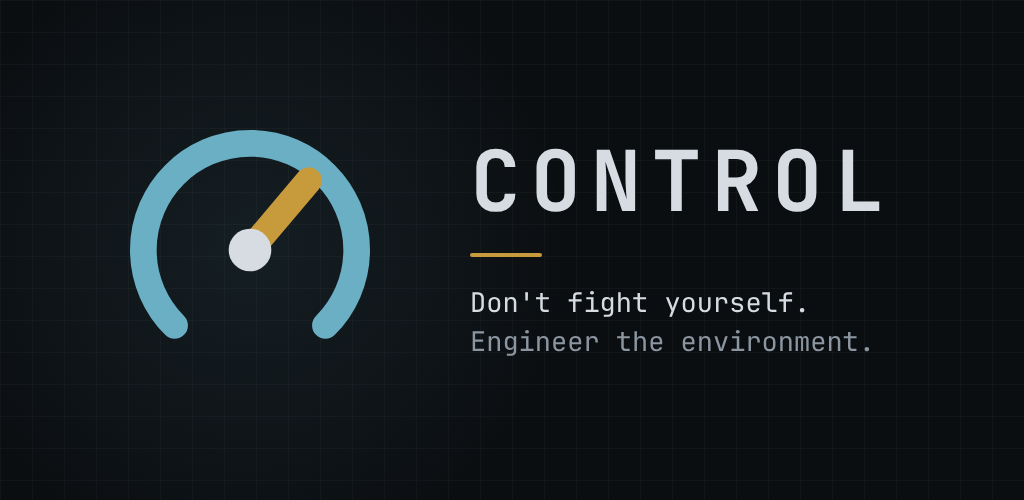
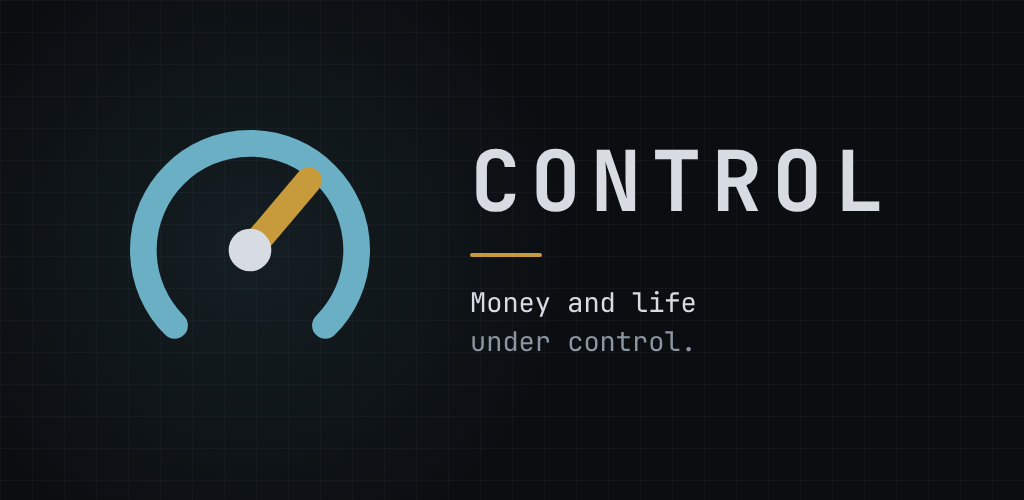
Money and life under control; exact permission list; rating section in the policy
Claude-Session: https://claude.ai/code/session_013H4ccpA5geiEoR3crP6e7C

diff --git a/en/index.html b/en/index.html
@@ -3,10 +3,10 @@
 <head>
 <meta charset="utf-8">
 <meta name="viewport" content="width=device-width, initial-scale=1">
-<title>CONTROL: Life &amp; Habit Tracker</title>
-<meta name="description" content="Addictions, habits, health from your watch and money in one Android app. No account and no internet: nothing you enter leaves your phone.">
-<meta property="og:title" content="CONTROL: Life &amp; Habit Tracker">
-<meta property="og:description" content="Addictions, habits, health from your watch and money in one Android app. No account and no internet: nothing you enter leaves your phone.">
+<title>CONTROL: money and life under control</title>
+<meta name="description" content="Money and life under control in one Android app: expenses, habits, health from your watch and a way out of addictions. No account and no internet: nothing you enter leaves your phone.">
+<meta property="og:title" content="CONTROL: money and life under control">
+<meta property="og:description" content="Money and life under control in one Android app: expenses, habits, health from your watch and a way out of addictions. No account and no internet: nothing you enter leaves your phone.">
 <meta property="og:image" content="https://dominikzurek.github.io/control-site/img/feature-en.png">
 <meta name="theme-color" content="#0D1318">
 <link rel="icon" href="../icon.svg" type="image/svg+xml">
@@ -23,34 +23,34 @@
 <main>
 <div class="hero">
 <div>
-<h1 class="motto"><span class="fight">Don&#x27;t fight yourself.</span><span class="design">Engineer the environment.</span></h1>
-<p class="lead">CONTROL is a personal system for better control over your life: addictions, habits, health from your watch and money in one place. It works without an account and without the internet, so nothing you enter leaves your phone.</p>
+<h1 class="motto"><span class="fight">Money and life</span><span class="design">under control.</span></h1>
+<p class="lead">CONTROL starts with your money: accounts, expenses, income and several currencies in one place. Around it you choose the rest: habits, health from your watch and, if you need it, a way out of an addiction. No account and no internet, so nothing you enter leaves your phone.</p>
 <div class="actions"><span class="button" aria-disabled="true">Coming soon to Google Play</span><a href="../privacy-policy.html">Privacy policy</a></div>
 <p class="req">Android 8.0 or newer, 17 languages.</p>
 </div>
-<div class="phone"><img src="../img/en-01-dashboard.webp" alt="The Today screen in CONTROL" width="540" height="1080"></div>
+<div class="phone"><img src="../img/en-24-finance.webp" alt="The Money screen in CONTROL" width="540" height="1080"></div>
 </div>
 
 <section aria-labelledby="inside">
 <h2 id="inside">What&#x27;s inside</h2>
 <div class="features">
-<div class="feature"><div class="phone"><img src="../img/en-02-urge.webp" alt="" width="540" height="1080" loading="lazy"></div><h3>When an urge comes</h3><p>A protocol for the next few minutes, the BLOCKER for sites and help numbers at hand. A lapse is data to learn from, not a reason for shame.</p></div><div class="feature"><div class="phone"><img src="../img/en-38-watches.webp" alt="" width="540" height="1080" loading="lazy"></div><h3>Health from your watch</h3><p>Sleep, steps and heart rate from Garmin, Samsung, Fitbit and more. You choose which app the data comes from.</p></div><div class="feature"><div class="phone"><img src="../img/en-24-finance.webp" alt="" width="540" height="1080" loading="lazy"></div><h3>Money</h3><p>Accounts, expenses, recurring payments and your own categories. Several currencies, counted apart or at your own rates.</p></div>
+<div class="feature"><div class="phone"><img src="../img/en-01-dashboard.webp" alt="" width="540" height="1080" loading="lazy"></div><h3>Your day</h3><p>The Today screen: the day plan, payments to book, habits and a 30-second check-in. Habits tick themselves off from your watch data.</p></div><div class="feature"><div class="phone"><img src="../img/en-02-urge.webp" alt="" width="540" height="1080" loading="lazy"></div><h3>When an urge comes</h3><p>A protocol for the next few minutes, the BLOCKER for apps and help numbers at hand. A lapse is data to learn from, not a reason for shame.</p></div><div class="feature"><div class="phone"><img src="../img/en-38-watches.webp" alt="" width="540" height="1080" loading="lazy"></div><h3>Health from your watch</h3><p>Sleep, steps and heart rate from Garmin, Samsung, Fitbit and more. You choose which app the data comes from.</p></div>
 </div>
-<p class="modules dim">Plus habits that tick themselves off from your watch data, and in CONTROL Pro a planner with alarms, shift work with pay, goals and focus.</p>
+<p class="modules dim">CONTROL Pro adds a planner with alarms, shift work with pay, goals and focus.</p>
 </section>
 
 <section aria-labelledby="perm">
 <h2 id="perm">What CONTROL can do on your phone</h2>
-<p class="dim" style="max-width:var(--measure)">Every permission of an Android app is public. This is the full list, with what each one is for. You can check it in your phone&#x27;s settings or in the Exodus Privacy report.</p>
+<p class="dim" style="max-width:var(--measure)">Every permission of an Android app is public. This is the full list of the release version, with what each one is for.</p>
 <ul class="ledger">
-<li class="absent"><code>android.permission.INTERNET</code><span>Not there. CONTROL has no way to send anything: not your data, not statistics, not ads.</span></li><li><code>POST_NOTIFICATIONS</code><span>Reminders for the check-in, habits and the day plan.</span></li><li><code>SCHEDULE_EXACT_ALARM, SET_ALARM</code><span>Alarms and reminders that ring on time.</span></li><li><code>RECEIVE_BOOT_COMPLETED</code><span>Puts reminders and alarms back after a restart.</span></li><li><code>USE_BIOMETRIC</code><span>Locking the app with your fingerprint.</span></li><li><code>FOREGROUND_SERVICE</code><span>BLOCKER: a local VPN on the phone that cuts off chosen sites. It sends nothing.</span></li><li><code>READ_CALENDAR, WRITE_CALENDAR</code><span>The phone&#x27;s calendar in the planner, only if you connect it.</span></li><li><code>health.READ_SLEEP, READ_STEPS, READ_EXERCISE, READ_HEART_RATE, READ_RESTING_HEART_RATE, READ_HEART_RATE_VARIABILITY</code><span>Sleep, steps, workouts and heart rate from your watch through Health Connect. Read only.</span></li><li><code>PACKAGE_USAGE_STATS</code><span>Screen time, if you allow it.</span></li><li><code>com.android.vending.BILLING, ACCESS_NETWORK_STATE</code><span>The subscription through the Play Store app on the phone (Google&#x27;s billing library). Neither lets CONTROL send data.</span></li>
+<li class="absent"><code>INTERNET</code><span>Not there. CONTROL has no way to send anything: not your data, not statistics, not ads.</span></li><li><code>POST_NOTIFICATIONS</code><span>Reminders for the check-in, habits, payments and the day plan, ringing alarms.</span></li><li><code>SCHEDULE_EXACT_ALARM</code><span>Alarms and reminders that ring on time.</span></li><li><code>com.android.alarm.permission.SET_ALARM</code><span>&quot;Set an alarm in Clock&quot;: opens the phone&#x27;s Clock with the time filled in.</span></li><li><code>RECEIVE_BOOT_COMPLETED</code><span>Puts reminders and alarms back after a restart.</span></li><li><code>USE_BIOMETRIC</code><span>Locking the app with your fingerprint, if you turn it on.</span></li><li><code>FOREGROUND_SERVICE, FOREGROUND_SERVICE_SYSTEM_EXEMPTED</code><span>The BLOCKER, while you run it: a local VPN on the phone that cuts off the apps you chose. It reads nothing and sends nothing.</span></li><li><code>READ_CALENDAR, WRITE_CALENDAR</code><span>The phone&#x27;s calendar in the planner, only if you connect it.</span></li><li><code>health.READ_SLEEP, health.READ_STEPS, health.READ_EXERCISE, health.READ_HEART_RATE, health.READ_RESTING_HEART_RATE, health.READ_HEART_RATE_VARIABILITY</code><span>Sleep, steps, workouts and heart rate from your watch through Health Connect, if you connect it. Read only.</span></li><li><code>PACKAGE_USAGE_STATS</code><span>Screen time, if you allow it.</span></li><li><code>com.android.vending.BILLING, ACCESS_NETWORK_STATE</code><span>The subscription through the Play Store app on the phone (Google&#x27;s billing library). Neither lets CONTROL send data.</span></li>
 </ul>
 </section>
 
 <section aria-labelledby="price">
 <h2 id="price">Price</h2>
 <div class="prices">
-<div class="price"><h3>The free version, for good</h3><p>Addictions with the urge protocol, the BLOCKER and analyses, habits, health from your watch, money and the backup. No time limit and no ads.</p></div>
+<div class="price"><h3>The free version, for good</h3><p>Money (accounts, expenses, income, currencies), addictions with the urge protocol, the BLOCKER and analyses, habits, health from your watch and the backup. No time limit and no ads.</p></div>
 <div class="price pro"><h3>CONTROL Pro, one yearly price</h3><p>A planner with alarms, shift work with pay, goals and focus. New subscribers get 30 days free, and the app reminds them two days before the first payment. Cancel in Google Play.</p><p>The price follows purchasing power in each country, for example $24.99 a year in the US.</p></div>
 </div>
 </section>
@@ -60,6 +60,7 @@
 <span>Contact: <a href="mailto:zurekdominik03@gmail.com">zurekdominik03@gmail.com</a></span>
 <a href="../privacy-policy.html">Privacy policy</a>
 </div>
+<p>Don&#x27;t fight yourself. Engineer the environment.</p>
 <p>CONTROL is not a medical device and does not replace professional help. In an emergency, call your local emergency number.</p>
 <p>Made by ZRK Group. © 2026</p>
 </footer>

diff --git a/index.html b/index.html
@@ -3,10 +3,10 @@
 <head>
 <meta charset="utf-8">
 <meta name="viewport" content="width=device-width, initial-scale=1">
-<title>CONTROL: życie pod kontrolą</title>
-<meta name="description" content="Nałogi, nawyki, zdrowie z zegarka i pieniądze w jednej aplikacji na Androida. Bez konta i bez internetu: nic, co wpiszesz, nie opuszcza telefonu.">
-<meta property="og:title" content="CONTROL: życie pod kontrolą">
-<meta property="og:description" content="Nałogi, nawyki, zdrowie z zegarka i pieniądze w jednej aplikacji na Androida. Bez konta i bez internetu: nic, co wpiszesz, nie opuszcza telefonu.">
+<title>CONTROL: pieniądze i życie pod kontrolą</title>
+<meta name="description" content="Pieniądze i życie pod kontrolą w jednej aplikacji na Androida: wydatki, nawyki, zdrowie z zegarka i wyjście z nałogów. Bez konta i bez internetu: nic, co wpiszesz, nie opuszcza telefonu.">
+<meta property="og:title" content="CONTROL: pieniądze i życie pod kontrolą">
+<meta property="og:description" content="Pieniądze i życie pod kontrolą w jednej aplikacji na Androida: wydatki, nawyki, zdrowie z zegarka i wyjście z nałogów. Bez konta i bez internetu: nic, co wpiszesz, nie opuszcza telefonu.">
 <meta property="og:image" content="https://dominikzurek.github.io/control-site/img/feature-pl.png">
 <meta name="theme-color" content="#0D1318">
 <link rel="icon" href="icon.svg" type="image/svg+xml">
@@ -23,34 +23,34 @@
 <main>
 <div class="hero">
 <div>
-<h1 class="motto"><span class="fight">Nie walcz ze sobą.</span><span class="design">Zaprojektuj otoczenie.</span></h1>
-<p class="lead">CONTROL to osobisty system do lepszej kontroli nad własnym życiem: nałogi, nawyki, zdrowie z zegarka i pieniądze w jednym miejscu. Działa bez konta i bez internetu, więc nic, co wpiszesz, nie opuszcza telefonu.</p>
+<h1 class="motto"><span class="fight">Pieniądze i życie</span><span class="design">pod kontrolą.</span></h1>
+<p class="lead">CONTROL zaczyna od Twoich pieniędzy: konta, wydatki, przychody i kilka walut w jednym miejscu. Wokół nich wybierasz resztę: nawyki, zdrowie z zegarka, a jeśli trzeba, wyjście z nałogu. Bez konta i bez internetu, więc nic, co wpiszesz, nie opuszcza telefonu.</p>
 <div class="actions"><span class="button" aria-disabled="true">Wkrótce w Google Play</span><a href="privacy-policy.html">Polityka prywatności</a></div>
 <p class="req">Android 8.0 lub nowszy, 17 języków.</p>
 </div>
-<div class="phone"><img src="img/pl-01-dashboard.webp" alt="Ekran Dziś w CONTROL" width="540" height="1080"></div>
+<div class="phone"><img src="img/pl-24-finance.webp" alt="Ekran Finanse w CONTROL" width="540" height="1080"></div>
 </div>
 
 <section aria-labelledby="inside">
 <h2 id="inside">Co jest w środku</h2>
 <div class="features">
-<div class="feature"><div class="phone"><img src="img/pl-02-urge.webp" alt="" width="540" height="1080" loading="lazy"></div><h3>Gdy przychodzi chęć</h3><p>Protokół na kilkanaście minut, BLOKER stron i numery pomocy pod ręką. Potknięcie to dane do analizy, nie powód do wstydu.</p></div><div class="feature"><div class="phone"><img src="img/pl-38-watches.webp" alt="" width="540" height="1080" loading="lazy"></div><h3>Zdrowie z zegarka</h3><p>Sen, kroki i tętno z Garmina, Samsunga, Fitbita i innych. Ty wybierasz, z której aplikacji brać dane.</p></div><div class="feature"><div class="phone"><img src="img/pl-24-finance.webp" alt="" width="540" height="1080" loading="lazy"></div><h3>Pieniądze</h3><p>Konta, wydatki, stałe płatności i własne kategorie. Kilka walut, liczonych osobno albo po Twoich kursach.</p></div>
+<div class="feature"><div class="phone"><img src="img/pl-01-dashboard.webp" alt="" width="540" height="1080" loading="lazy"></div><h3>Twój dzień</h3><p>Ekran Dziś: plan dnia, płatności do zaksięgowania, nawyki i check-in w 30 sekund. Nawyki odhaczają się same z danych zegarka.</p></div><div class="feature"><div class="phone"><img src="img/pl-02-urge.webp" alt="" width="540" height="1080" loading="lazy"></div><h3>Gdy przychodzi chęć</h3><p>Protokół na kilkanaście minut, BLOKER aplikacji i numery pomocy pod ręką. Potknięcie to dane do analizy, nie powód do wstydu.</p></div><div class="feature"><div class="phone"><img src="img/pl-38-watches.webp" alt="" width="540" height="1080" loading="lazy"></div><h3>Zdrowie z zegarka</h3><p>Sen, kroki i tętno z Garmina, Samsunga, Fitbita i innych. Ty wybierasz, z której aplikacji brać dane.</p></div>
 </div>
-<p class="modules dim">Do tego nawyki odhaczane same z danych zegarka, a w CONTROL Pro planer z budzikami, praca zmianowa z wypłatą, cele i skupienie.</p>
+<p class="modules dim">W CONTROL Pro także planer z budzikami, praca zmianowa z wypłatą, cele i skupienie.</p>
 </section>
 
 <section aria-labelledby="perm">
 <h2 id="perm">Co CONTROL może zrobić na Twoim telefonie</h2>
-<p class="dim" style="max-width:var(--measure)">Każde uprawnienie aplikacji na Androidzie jest jawne. To jest pełna lista, z tym, do czego służy. Możesz ją sprawdzić w ustawieniach telefonu albo w raporcie Exodus Privacy.</p>
+<p class="dim" style="max-width:var(--measure)">Każde uprawnienie aplikacji na Androidzie jest jawne. To jest pełna lista z wersji wydania, z tym, do czego służy.</p>
 <ul class="ledger">
-<li class="absent"><code>android.permission.INTERNET</code><span>Nie ma. CONTROL nie ma jak niczego wysłać: ani Twoich danych, ani statystyk, ani reklam.</span></li><li><code>POST_NOTIFICATIONS</code><span>Przypomnienia o check-inie, nawykach i planie dnia.</span></li><li><code>SCHEDULE_EXACT_ALARM, SET_ALARM</code><span>Budziki i przypomnienia dokładnie o czasie.</span></li><li><code>RECEIVE_BOOT_COMPLETED</code><span>Przywraca przypomnienia i budziki po restarcie telefonu.</span></li><li><code>USE_BIOMETRIC</code><span>Blokada aplikacji odciskiem palca.</span></li><li><code>FOREGROUND_SERVICE</code><span>BLOKER: lokalny VPN na telefonie, który odcina wybrane strony. Nic nie wysyła.</span></li><li><code>READ_CALENDAR, WRITE_CALENDAR</code><span>Kalendarz telefonu w planerze, tylko jeśli go połączysz.</span></li><li><code>health.READ_SLEEP, READ_STEPS, READ_EXERCISE, READ_HEART_RATE, READ_RESTING_HEART_RATE, READ_HEART_RATE_VARIABILITY</code><span>Sen, kroki, treningi i tętno z zegarka przez Health Connect. Tylko odczyt.</span></li><li><code>PACKAGE_USAGE_STATS</code><span>Czas przed ekranem, jeśli na to pozwolisz.</span></li><li><code>com.android.vending.BILLING, ACCESS_NETWORK_STATE</code><span>Subskrypcja przez aplikację Sklep Play na telefonie (biblioteka płatności Google). Żadne z nich nie pozwala wysyłać danych.</span></li>
+<li class="absent"><code>INTERNET</code><span>Nie ma. CONTROL nie ma jak niczego wysłać: ani Twoich danych, ani statystyk, ani reklam.</span></li><li><code>POST_NOTIFICATIONS</code><span>Przypomnienia o check-inie, nawykach, płatnościach i planie dnia, dzwoniące budziki.</span></li><li><code>SCHEDULE_EXACT_ALARM</code><span>Budziki i przypomnienia dokładnie o czasie.</span></li><li><code>com.android.alarm.permission.SET_ALARM</code><span>„Ustaw budzik w Zegarze”: otwiera Zegar telefonu z wpisaną godziną.</span></li><li><code>RECEIVE_BOOT_COMPLETED</code><span>Przywraca przypomnienia i budziki po restarcie telefonu.</span></li><li><code>USE_BIOMETRIC</code><span>Blokada aplikacji odciskiem palca, jeśli ją włączysz.</span></li><li><code>FOREGROUND_SERVICE, FOREGROUND_SERVICE_SYSTEM_EXEMPTED</code><span>BLOKER, gdy go uruchomisz: lokalny VPN na telefonie, który odcina wybrane aplikacje. Nic nie czyta i nic nie wysyła.</span></li><li><code>READ_CALENDAR, WRITE_CALENDAR</code><span>Kalendarz telefonu w planerze, tylko jeśli go połączysz.</span></li><li><code>health.READ_SLEEP, health.READ_STEPS, health.READ_EXERCISE, health.READ_HEART_RATE, health.READ_RESTING_HEART_RATE, health.READ_HEART_RATE_VARIABILITY</code><span>Sen, kroki, treningi i tętno z zegarka przez Health Connect, jeśli je połączysz. Tylko odczyt.</span></li><li><code>PACKAGE_USAGE_STATS</code><span>Czas przed ekranem, jeśli na to pozwolisz.</span></li><li><code>com.android.vending.BILLING, ACCESS_NETWORK_STATE</code><span>Subskrypcja przez aplikację Sklep Play na telefonie (biblioteka płatności Google). Żadne z nich nie pozwala CONTROL wysyłać danych.</span></li>
 </ul>
 </section>
 
 <section aria-labelledby="price">
 <h2 id="price">Cena</h2>
 <div class="prices">
-<div class="price"><h3>Wersja bezpłatna, na zawsze</h3><p>Nałogi z protokołem impulsu, BLOKEREM i analizami, nawyki, zdrowie z zegarka, pieniądze i kopia zapasowa. Bez limitu czasu i bez reklam.</p></div>
+<div class="price"><h3>Wersja bezpłatna, na zawsze</h3><p>Pieniądze (konta, wydatki, przychody, waluty), nałogi z protokołem impulsu, BLOKEREM i analizami, nawyki, zdrowie z zegarka i kopia zapasowa. Bez limitu czasu i bez reklam.</p></div>
 <div class="price pro"><h3>CONTROL Pro, 50 zł rocznie</h3><p>Planer z budzikami, praca zmianowa z wypłatą, cele i skupienie. Nowi subskrybenci mają 30 dni za darmo, a aplikacja przypomina o płatności dwa dni wcześniej. Anulujesz w Google Play.</p><p>W innych krajach cena jest dopasowana do siły nabywczej.</p></div>
 </div>
 </section>
@@ -60,6 +60,7 @@
 <span>Kontakt: <a href="mailto:zurekdominik03@gmail.com">zurekdominik03@gmail.com</a></span>
 <a href="privacy-policy.html">Polityka prywatności</a>
 </div>
+<p>Nie walcz ze sobą. Zaprojektuj otoczenie.</p>
 <p>CONTROL nie jest wyrobem medycznym i nie zastępuje pomocy specjalisty. W nagłej sytuacji dzwoń pod 112.</p>
 <p>Tworzy ZRK Group. © 2026</p>
 </footer>

diff --git a/privacy-policy.html b/privacy-policy.html
@@ -25,6 +25,8 @@ h1 { font-size: 1.5rem; margin-top: 2.5rem; } h2 { font-size: 1.1rem; margin-top
 <p>If you choose to export a backup, the app writes one JSON file to a location you pick in the system file picker. The file is not encrypted. Where it goes after that, and who can read it, is under your control. Importing reads only the file you choose.</p>
 <h2>Price and payment</h2>
 <p>CONTROL has a free version with no time limit: addictions with the urge protocol, the Blocker and the help numbers, habits, health, money and the backup of your data. CONTROL Pro, a yearly subscription bought through Google Play, adds the planner, work and pay, goals and focus. New subscribers can try Pro free for the period shown before buying; Google Play charges only when that period ends, unless you cancel earlier in Google Play, and the app reminds you two days before. There is no advertising. Google Play handles the payment under Google’s own privacy policy. The developer never sees your card details; Google Play reports only the order information it gives every seller (such as the order number, date, price and country) for accounting, taxes and refunds, and nothing you enter in CONTROL is part of it. To check the subscription, CONTROL asks the Play Store app on your phone, over a connection inside the phone, whether it is active; CONTROL itself sends nothing. For this the app holds the Google Play billing permission and, added by Google’s billing library, the permission to see whether a network connection exists; neither lets CONTROL send anything.</p>
+<h2>Rating the app</h2>
+<p>After at least a week of use, CONTROL may ask you once whether you want to rate it. That window belongs to the Play Store app on your phone: what you choose there goes to Google under Google’s terms, and CONTROL never learns whether or how you rated it. “Rate CONTROL” in Settings opens the app’s page in the Play Store.</p>
 <h2>Permissions</h2>
 <p>Notifications: reminders you switch on, the end of the urge timer and ringing alarms. Alarms and reminders: to ring CONTROL’s alarms and show those notifications on time. Start after reboot: to restore reminders and alarms. Biometrics: only if you turn on fingerprint or face unlock for the app lock; the fingerprint or face never reaches the app. VPN and a foreground service: only while you run the Blocker, which uses Android’s VPN function as a switch that cuts the internet of the apps you chose for the time you chose; their traffic is dropped inside the phone and is never read, recorded or sent anywhere. Help numbers and support people open the phone’s dialler or messaging app with the number or a ready message filled in; nothing is called or sent until you press call or send there. The home-screen widget can show the number of days of your current run, never the name of the addiction; you can turn this off. Set an alarm: “Set an alarm in Clock” opens the phone’s clock app with the time filled in. To show the next alarm, CONTROL reads only its time and the name of the app that set it, which Android gives to every app; this is shown, not stored. Calendar: only if you connect the phone calendar in the planner (see below). Health data: only if you connect it (see below).</p>
 <h2>Phone calendar (optional)</h2>
@@ -58,6 +60,8 @@ h1 { font-size: 1.5rem; margin-top: 2.5rem; } h2 { font-size: 1.1rem; margin-top
 <p>Jeśli zdecydujesz się wyeksportować kopię, aplikacja zapisze jeden plik JSON w miejscu, które wskażesz w systemowym oknie wyboru. Plik nie jest szyfrowany. To, gdzie trafi dalej i kto może go odczytać, zależy od Ciebie. Import odczytuje wyłącznie wskazany przez Ciebie plik.</p>
 <h2>Cena i płatność</h2>
 <p>CONTROL ma wersję bezpłatną bez limitu czasu: nałogi z protokołem impulsu, Blokerem i numerami pomocy, nawyki, zdrowie, pieniądze i kopię Twoich danych. CONTROL Pro, subskrypcja roczna kupowana przez Google Play, dodaje planer, pracę z wypłatą, cele i skupienie. Nowi subskrybenci mogą wypróbować Pro bezpłatnie przez okres pokazany przed zakupem; Google Play pobiera opłatę dopiero po jego końcu, chyba że wcześniej anulujesz w Google Play, a aplikacja przypomina o tym dwa dni wcześniej. Aplikacja nie zawiera reklam. Płatność obsługuje Google Play według polityki prywatności Google. Twórca nigdy nie widzi danych Twojej karty; Google Play przekazuje mu tylko informacje o zamówieniu, które dostaje każdy sprzedawca (na przykład numer zamówienia, datę, cenę i kraj), do księgowości, podatków i zwrotów, i nic, co wpisujesz w CONTROL, nie jest ich częścią. Aby sprawdzić subskrypcję, CONTROL pyta aplikację Sklep Play na Twoim telefonie, przez połączenie wewnątrz telefonu, czy jest aktywna; sam CONTROL niczego nie wysyła. Do tego aplikacja ma uprawnienie do płatności Google Play oraz, dodane przez bibliotekę płatności Google, uprawnienie do sprawdzenia, czy jest połączenie z siecią; żadne z nich nie pozwala CONTROL niczego wysłać.</p>
+<h2>Ocena aplikacji</h2>
+<p>Po co najmniej tygodniu używania CONTROL może raz zapytać, czy chcesz go ocenić. To okno należy do aplikacji Sklep Play na Twoim telefonie: to, co tam wybierzesz, trafia do Google na zasadach Google, a CONTROL nigdy nie wie, czy ani jak go oceniłeś. „Oceń CONTROL” w Ustawieniach otwiera stronę aplikacji w Sklepie Play.</p>
 <h2>Uprawnienia</h2>
 <p>Powiadomienia: przypomnienia, które włączysz, koniec timera impulsu i dzwoniące budziki. Alarmy i przypomnienia: aby budziki CONTROL dzwoniły, a powiadomienia pojawiały się na czas. Uruchomienie po restarcie: aby przywrócić przypomnienia i budziki. Biometria: tylko jeśli włączysz odblokowanie odciskiem lub twarzą; sam odcisk ani twarz nigdy nie trafiają do aplikacji. VPN i usługa na pierwszym planie: tylko gdy uruchomisz Bloker, który używa funkcji VPN Androida jako przełącznika odcinającego internet wybranym przez Ciebie aplikacjom na wybrany czas; ich ruch jest odrzucany wewnątrz telefonu i nigdy nie jest odczytywany, zapisywany ani nigdzie wysyłany. Numery pomocy i osoby wsparcia otwierają wybierak numeru albo aplikację do wiadomości z wpisanym numerem lub gotową wiadomością; nic nie jest wybierane ani wysyłane, dopóki tam nie naciśniesz zadzwoń lub wyślij. Widżet na ekranie głównym może pokazywać liczbę dni obecnego okresu, nigdy nazwę nałogu; można to wyłączyć. Ustawianie budzika: „Ustaw budzik w Zegarze” otwiera aplikację Zegar z wpisaną godziną. Aby pokazać najbliższy budzik, CONTROL odczytuje tylko jego godzinę i nazwę aplikacji, która go ustawiła — Android udostępnia to każdej aplikacji; jest to pokazywane, a nie zapisywane. Kalendarz: tylko jeśli połączysz kalendarz telefonu w planerze (niżej). Dane o zdrowiu: tylko jeśli je połączysz (niżej).</p>
 <h2>Kalendarz telefonu (opcjonalnie)</h2>
